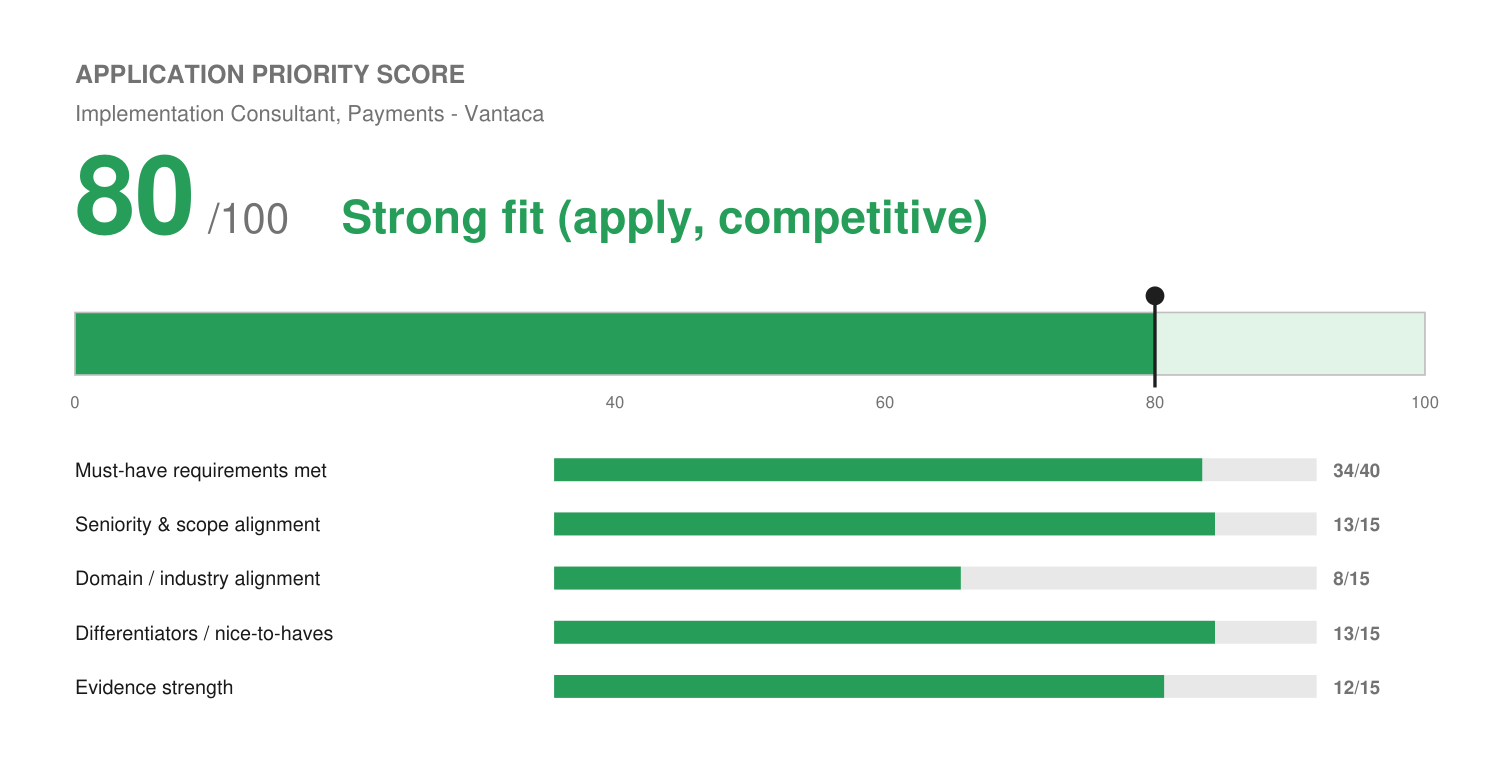
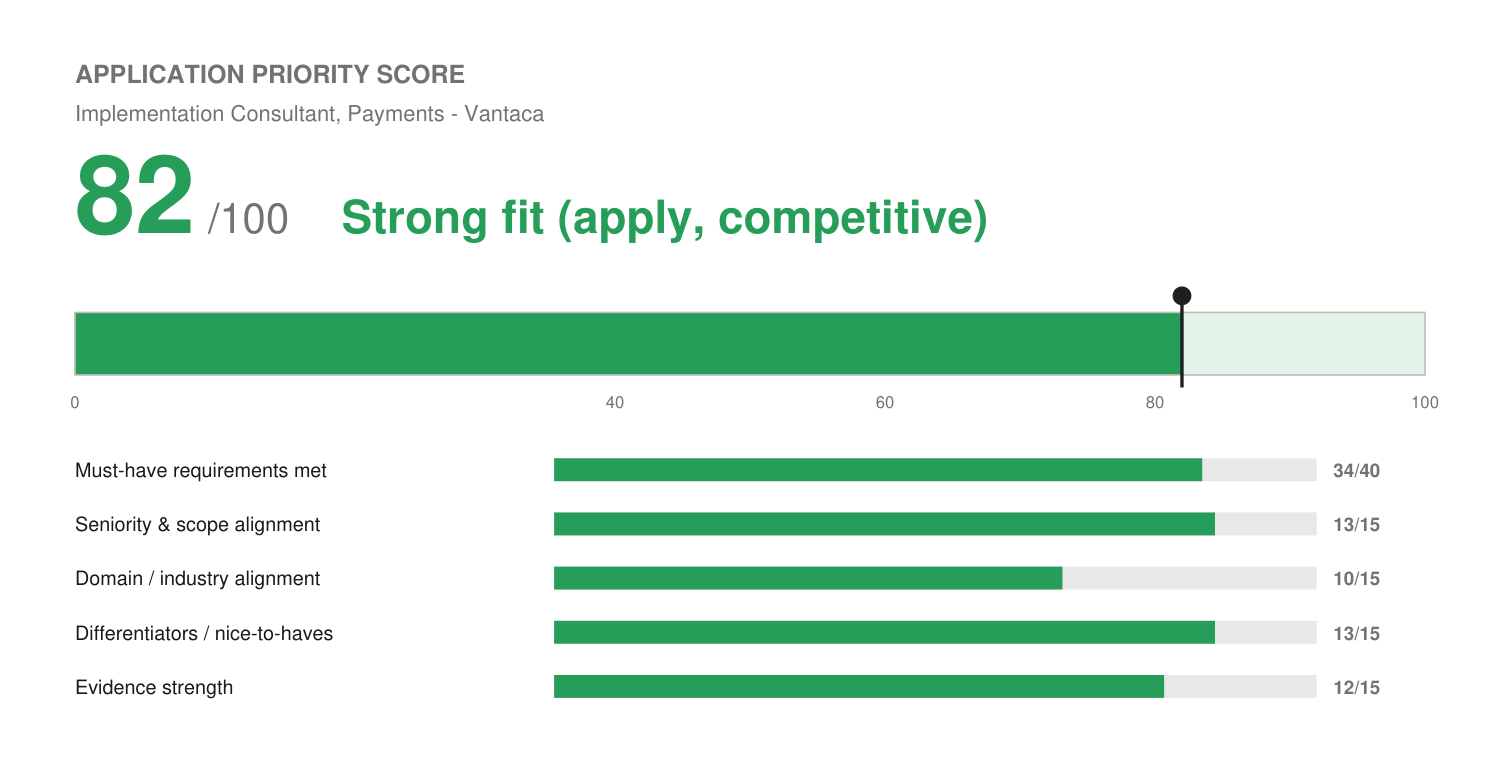
Vantaca Payments: Stripe and office travel confirmed, score 82, resume and cover letter rebuilt; profile updated
Claude-Session: https://claude.ai/code/session_01FBRQCEuHNbZjQ9zAhKMdjS

diff --git a/applications/vantaca-implementation-consultant-payments/match-report.md b/applications/vantaca-implementation-consultant-payments/match-report.md
@@ -12,11 +12,11 @@
 
 | Item | Classification | Notes |
 | :--- | :--- | :--- |
-| Remote from Colorado | **Needs candidate confirmation** | Listed remote, but "come to the office when needed" implies occasional Wilmington travel. Covered by the 20% travel rule unless it means regular onsite |
+| Remote from Colorado | Application-form, **confirmed** | Josh confirmed occasional Wilmington office travel is fine (Oct 8) |
 | Work authorization | Application-form | U.S. citizen, no sponsorship |
 | Compensation | Application-form | Posted $80K-$95K. Answer **$85,000** (lower-middle per standing rule) |
 | 2+ yrs implementation at software/fintech | Resume-evidenced | Wix, Accelo, Birdeye, Solenzo |
-| Stripe / KYC experience | **Needs candidate confirmation** | Core responsibility, not a listed requirement. Not in profile |
+| Stripe / KYC experience | Resume-evidenced, **partial** | Stripe setup confirmed (Solenzo). KYC/restricted accounts still unconfirmed |
 
 No knockout. No cap. No video answer.
 
@@ -24,8 +24,8 @@ No knockout. No cap. No video answer.
 
 ## Application Priority Score
 
-⚪ **80 / 100 — Strong fit (apply, competitive)**
-`[████████████████░░░░]  80%`
+⚪ **82 / 100 — Strong fit (apply, competitive)**
+`[████████████████░░░░]  82%`
 
 *Internal decision aid, not a prediction of Vantaca's screening outcome.* See `fit.png`.
 
@@ -33,7 +33,7 @@ No knockout. No cap. No video answer.
 | :--- | :---: | :---: |
 | Must-have requirements met | 34 | 40 |
 | Seniority & scope alignment | 13 | 15 |
-| Domain / industry alignment | 8 | 15 |
+| Domain / industry alignment | 10 | 15 |
 | Differentiators / nice-to-haves | 13 | 15 |
 | Evidence strength | 12 | 15 |
 
@@ -64,13 +64,12 @@ The listed requirements are almost a straight match: concurrent launches, traini
 - Post-launch adoption tracking (Birdeye utilization monitoring, ~94% retention).
 
 ## Gaps
-- No Stripe Connect / KYC onboarding or restricted-account resolution (pending confirmation below).
+- KYC onboarding and restricted-account resolution not confirmed (Stripe setup itself is confirmed).
 - No HOA / community management industry exposure.
 - No documented NPS or adoption-rate metric to match their success targets (60% engagement, NPS > 50).
 
 ## Candidate Confirmation Needed
-1. Have you set up or worked in Stripe (for Solenzo clients, GoHighLevel payments, your own invoicing)? Any KYC/identity verification or account-restriction issues?
-2. Is "come to the office when needed" acceptable as occasional travel to Wilmington, NC?
+1. Stripe: confirmed (Oct 8). Still open: have you handled KYC/identity verification, restricted accounts, or fee/payment-method configuration in Stripe? Worth having a real example ready for the interview.
 
 ## Metrics Needed
 - Any adoption or NPS/CSAT number from Wix or Birdeye onboarding (recurring gap across implementation postings, worth `/excavate-profile`).

diff --git a/profile/master-profile.md b/profile/master-profile.md
@@ -69,6 +69,14 @@
 > billing adjustments, cancellations, or renewals in a billing system. Real gap; the Accelo
 > invoicing/billing walkthroughs are the closest adjacent evidence.
 >
+> **Stripe (confirmed by Josh, Oct 8 2026, Vantaca):** has set up and worked in Stripe at
+> Solenzo. Claim "Stripe payment setup." KYC/identity verification, restricted-account
+> resolution, and fee-structure configuration are NOT yet confirmed separately; ask before
+> claiming those specifically.
+>
+> **Occasional office travel (confirmed by Josh, Oct 8 2026, Vantaca):** fine with
+> "come to the office when needed" remote roles (occasional travel to an out-of-state HQ).
+>
 > **Entry-level pay (Josh, Oct 2026):** willing to accept entry-level pay for the right role
 > (Wordly). On forms with no posted range, answer "open to your range for this role."
 >
@@ -735,7 +743,7 @@ operator talking, not like a candidate performing.
 | Sales & Account Management | Full-cycle Sales, Pipeline Management, Pipeline Stage Tracking & Forecast Hygiene, C-Suite Relationship Building, Strategic Advisory, Account Expansion |
 | Operations & Systems | Process Mapping, SOP Development, Workflow Decomposition, Project Management, Cross-functional Coordination |
 | Content & Writing | Thought Leadership, Direct Response Copy, Technical Translation, Brand Voice, Editorial Management |
-| Tools & Platforms | GoHighLevel, HubSpot, Salesforce, Notion, Slack, Asana, Monday.com, Jira, Zendesk, ClickUp, Screaming Frog, Google Apps |
+| Tools & Platforms | GoHighLevel, HubSpot, Salesforce, Stripe, Notion, Slack, Asana, Monday.com, Jira, Zendesk, ClickUp, Screaming Frog, Google Apps |
 
 > **Excel, Power BI, SQL, Python/JS (confirmed by Josh, Sep 2026, updated Sep 2026):**
 > Excel is a genuine, experienced-level skill, not just baseline literacy. Power BI is
